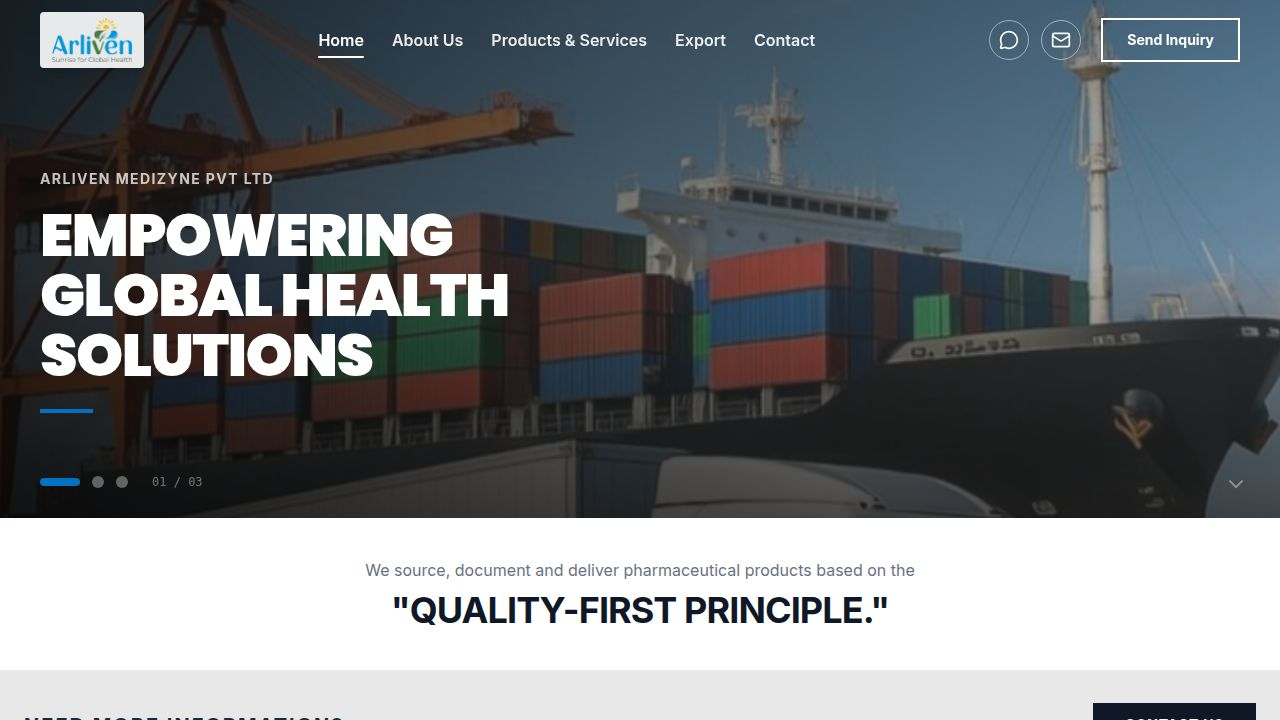
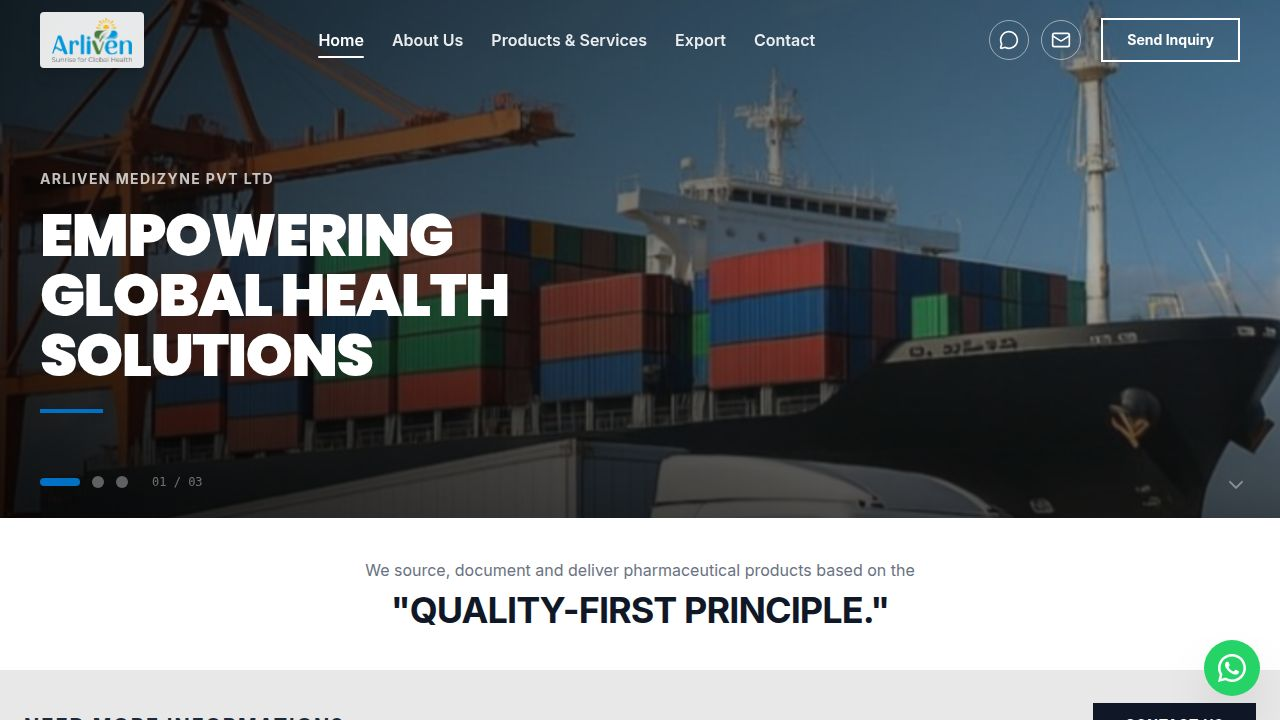
Fix broken navigation links and improve map interactivity on the website
Corrected footer navigation links to point to the correct routes, and enhanced the contact page map section to be clickable, opening the provided Google Maps link directly.

Replit-Commit-Author: Agent
Replit-Commit-Session-Id: 74f67e3b-e7c7-43a1-ae09-4dcbb576dd8c
Replit-Commit-Checkpoint-Type: full_checkpoint
Replit-Commit-Event-Id: a62e742d-9934-49fe-8b06-d2586c01e1cd
Replit-Commit-Screenshot-Url: https://storage.googleapis.com/screenshot-production-us-central1/0023b57a-7a92-4bcf-8c28-df07c4b7561d/74f67e3b-e7c7-43a1-ae09-4dcbb576dd8c/5EngbOk
Replit-Helium-Checkpoint-Created: true

diff --git a/artifacts/arliven-medizyne/src/components/layout/Footer.tsx b/artifacts/arliven-medizyne/src/components/layout/Footer.tsx
@@ -1,19 +1,37 @@
 import { Link } from "wouter";
 import { Phone, Mail, MapPin, ArrowRight, Linkedin, Twitter, Facebook } from "lucide-react";
 
+const MAPS_LINK = "https://maps.app.goo.gl/deb5VwkttGy3S7eH9";
+
+const navLinks = [
+  { name: "Home",                href: "/" },
+  { name: "About Us",            href: "/about" },
+  { name: "Products & Services", href: "/products" },
+  { name: "Export",              href: "/export" },
+  { name: "Contact",             href: "/contact" },
+];
+
+const serviceLinks = [
+  "Pharma Merchant Export",
+  "Domestic Pharma Supply",
+  "Third Party Manufacturing",
+  "Bulk Supply & Sourcing",
+  "Private Label Support",
+];
+
 export function Footer() {
   return (
     <footer className="bg-[#1a1a1a] text-white pt-20 pb-10">
       <div className="max-w-7xl mx-auto px-4 sm:px-6 lg:px-8">
         <div className="grid grid-cols-1 md:grid-cols-2 lg:grid-cols-4 gap-12 mb-16">
-          
+
           {/* Brand Col */}
           <div className="space-y-6">
             <div className="flex items-center gap-3">
               <div className="bg-white rounded-xl p-2 inline-block">
-                <img 
-                  src={`${import.meta.env.BASE_URL}images/arliven-logo.png`} 
-                  alt="Arliven Medizyne" 
+                <img
+                  src={`${import.meta.env.BASE_URL}images/arliven-logo.png`}
+                  alt="Arliven Medizyne"
                   className="h-10 w-auto object-contain"
                 />
               </div>
@@ -22,63 +40,77 @@ export function Footer() {
               Reliable Pharmaceutical Merchant Exporter from India delivering high-quality pharmaceutical and surgical products worldwide.
             </p>
             <div className="flex gap-4">
-              <a href="#" className="w-10 h-10 rounded-full bg-white/10 flex items-center justify-center text-white hover:bg-primary hover:text-white transition-colors">
+              <a href="#" className="w-10 h-10 rounded-full bg-white/10 flex items-center justify-center text-white hover:bg-[#0071c5] transition-colors">
                 <Linkedin className="w-5 h-5" />
               </a>
-              <a href="#" className="w-10 h-10 rounded-full bg-white/10 flex items-center justify-center text-white hover:bg-primary hover:text-white transition-colors">
+              <a href="#" className="w-10 h-10 rounded-full bg-white/10 flex items-center justify-center text-white hover:bg-[#0071c5] transition-colors">
                 <Twitter className="w-5 h-5" />
               </a>
-              <a href="#" className="w-10 h-10 rounded-full bg-white/10 flex items-center justify-center text-white hover:bg-primary hover:text-white transition-colors">
+              <a href="#" className="w-10 h-10 rounded-full bg-white/10 flex items-center justify-center text-white hover:bg-[#0071c5] transition-colors">
                 <Facebook className="w-5 h-5" />
               </a>
             </div>
           </div>
 
-          {/* Quick Links */}
+          {/* Quick Links — fixed hrefs */}
           <div>
-            <h4 className="font-display font-semibold text-lg mb-6 text-white">Quick Links</h4>
+            <h4 className="font-semibold text-lg mb-6 text-white">Quick Links</h4>
             <ul className="space-y-4">
-              {['Home', 'About Us', 'Products & Services', 'Export', 'Contact'].map((item) => (
-                <li key={item}>
-                  <Link 
-                    href={item === 'Home' ? '/' : `/${item.toLowerCase().replace(/ & /g, '-').replace(/ /g, '-')}`}
-                    className="text-gray-400 hover:text-primary transition-colors flex items-center gap-2 text-sm font-medium group"
+              {navLinks.map((item) => (
+                <li key={item.name}>
+                  <Link
+                    href={item.href}
+                    className="text-gray-400 hover:text-[#0071c5] transition-colors flex items-center gap-2 text-sm font-medium group"
                   >
                     <ArrowRight className="w-4 h-4 opacity-0 -ml-6 group-hover:opacity-100 group-hover:ml-0 transition-all duration-300" />
-                    {item}
+                    {item.name}
                   </Link>
                 </li>
               ))}
             </ul>
           </div>
 
-          {/* Services */}
+          {/* Services — linked to products page */}
           <div>
-            <h4 className="font-display font-semibold text-lg mb-6 text-white">Our Services</h4>
-            <ul className="space-y-4 text-sm font-medium text-gray-400">
-              <li>Pharma Merchant Export</li>
-              <li>Domestic Pharma Supply</li>
-              <li>Third Party Manufacturing</li>
-              <li>Bulk Supply & Sourcing</li>
-              <li>Private Label Support</li>
+            <h4 className="font-semibold text-lg mb-6 text-white">Our Services</h4>
+            <ul className="space-y-4">
+              {serviceLinks.map((s) => (
+                <li key={s}>
+                  <Link
+                    href="/products"
+                    className="text-gray-400 hover:text-[#0071c5] transition-colors flex items-center gap-2 text-sm font-medium group"
+                  >
+                    <ArrowRight className="w-4 h-4 opacity-0 -ml-6 group-hover:opacity-100 group-hover:ml-0 transition-all duration-300" />
+                    {s}
+                  </Link>
+                </li>
+              ))}
             </ul>
           </div>
 
           {/* Contact */}
           <div>
-            <h4 className="font-display font-semibold text-lg mb-6 text-white">Contact Us</h4>
+            <h4 className="font-semibold text-lg mb-6 text-white">Contact Us</h4>
             <ul className="space-y-4 text-sm font-medium text-gray-400">
-              <li className="flex items-start gap-3">
-                <MapPin className="w-5 h-5 text-primary shrink-0 mt-0.5" />
-                <span>Maharashtra, India</span>
+              {/* Map link — tappable, opens Google Maps */}
+              <li>
+                <a
+                  href={MAPS_LINK}
+                  target="_blank"
+                  rel="noopener noreferrer"
+                  className="flex items-start gap-3 hover:text-[#0071c5] transition-colors group"
+                >
+                  <MapPin className="w-5 h-5 text-[#0071c5] shrink-0 mt-0.5 group-hover:scale-110 transition-transform" />
+                  <span>Maharashtra, India<br /><span className="text-xs text-gray-500 group-hover:text-[#0071c5]">View on Google Maps ↗</span></span>
+                </a>
               </li>
               <li className="flex items-center gap-3">
-                <Phone className="w-5 h-5 text-primary shrink-0" />
-                <a href="tel:[phone redacted]" className="hover:text-primary transition-colors">[phone redacted]</a>
+                <Phone className="w-5 h-5 text-[#0071c5] shrink-0" />
+                <a href="tel:[phone redacted]" className="hover:text-[#0071c5] transition-colors">[phone redacted]</a>
               </li>
               <li className="flex items-center gap-3">
-                <Mail className="w-5 h-5 text-primary shrink-0" />
-                <a href="mailto:[email redacted]" className="hover:text-primary transition-colors">[email redacted]</a>
+                <Mail className="w-5 h-5 text-[#0071c5] shrink-0" />
+                <a href="mailto:[email redacted]" className="hover:text-[#0071c5] transition-colors">[email redacted]</a>
               </li>
             </ul>
           </div>
@@ -87,8 +119,8 @@ export function Footer() {
         <div className="border-t border-white/10 pt-8 flex flex-col md:flex-row justify-between items-center gap-4 text-sm font-medium text-gray-500">
           <p>© {new Date().getFullYear()} Arliven Medizyne Pvt Ltd. All rights reserved.</p>
           <div className="flex gap-6">
-            <Link href="/privacy" className="hover:text-white transition-colors">Privacy Policy</Link>
-            <Link href="/terms" className="hover:text-white transition-colors">Terms of Service</Link>
+            <Link href="/contact" className="hover:text-white transition-colors">Privacy Policy</Link>
+            <Link href="/contact" className="hover:text-white transition-colors">Terms of Service</Link>
           </div>
         </div>
       </div>

diff --git a/artifacts/arliven-medizyne/src/pages/Contact.tsx b/artifacts/arliven-medizyne/src/pages/Contact.tsx
@@ -171,18 +171,47 @@ export default function Contact() {
         </div>
       </section>
 
-      {/* Map */}
-      <section className="h-[400px] w-full bg-[#111] border-t border-white/10 grayscale hover:grayscale-0 transition-all duration-500">
-        <iframe
-          src="https://www.google.com/maps/embed?pb=!1m18!1m12!1m3!1m3!1d3824056.248384218!2d73.86445582319208!3d18.917997397737877!2m3!1f0!2f0!3f0!3m2!1i1024!2i768!4f13.1!3m3!1m2!1s0x3bcfc41e9c9cd6f9%3A0x1b2f22924be04fb6!2sMaharashtra!5e0!3m2!1sen!2sin!4v1700000000000!5m2!1sen!2sin"
-          width="100%"
-          height="100%"
-          style={{ border: 0 }}
-          allowFullScreen
-          loading="lazy"
-          referrerPolicy="no-referrer-when-downgrade"
-          title="Maharashtra, India Map"
-        />
+      {/* Map — clickable, opens Google Maps */}
+      <section className="w-full bg-[#111] border-t border-white/10">
+        {/* Open in Maps button */}
+        <div className="flex items-center justify-between px-6 lg:px-10 py-4 bg-[#0071c5]">
+          <div className="flex items-center gap-3 text-white">
+            <MapPin className="w-5 h-5 shrink-0" />
+            <span className="font-semibold text-sm">Arliven Medizyne Pvt Ltd — Maharashtra, India</span>
+          </div>
+          <a
+            href="https://maps.app.goo.gl/deb5VwkttGy3S7eH9"
+            target="_blank"
+            rel="noopener noreferrer"
+            className="flex items-center gap-2 bg-white text-[#0071c5] font-black text-xs px-4 py-2 hover:bg-blue-50 transition-colors whitespace-nowrap"
+          >
+            Open in Maps ↗
+          </a>
+        </div>
+        {/* Embedded map — tap to open full map */}
+        <a
+          href="https://maps.app.goo.gl/deb5VwkttGy3S7eH9"
+          target="_blank"
+          rel="noopener noreferrer"
+          className="block relative h-[380px] grayscale hover:grayscale-0 transition-all duration-500 cursor-pointer"
+          title="Open in Google Maps"
+        >
+          <iframe
+            src="https://www.google.com/maps/embed?pb=!1m18!1m12!1m3!1d3824056.248384218!2d73.86445582319208!3d18.917997397737877!2m3!1f0!2f0!3f0!3m2!1i1024!2i768!4f13.1!3m3!1m2!1s0x3bcfc41e9c9cd6f9%3A0x1b2f22924be04fb6!2sMaharashtra!5e0!3m2!1sen!2sin!4v1700000000000!5m2!1sen!2sin"
+            width="100%"
+            height="100%"
+            style={{ border: 0, pointerEvents: "none" }}
+            allowFullScreen
+            loading="lazy"
+            referrerPolicy="no-referrer-when-downgrade"
+            title="Arliven Medizyne Location"
+          />
+          {/* Tap overlay hint */}
+          <div className="absolute bottom-4 right-4 bg-white shadow-lg px-3 py-2 flex items-center gap-2 text-xs font-bold text-gray-800">
+            <MapPin className="w-4 h-4 text-[#0071c5]" />
+            Tap to open map
+          </div>
+        </a>
       </section>
     </main>
   );